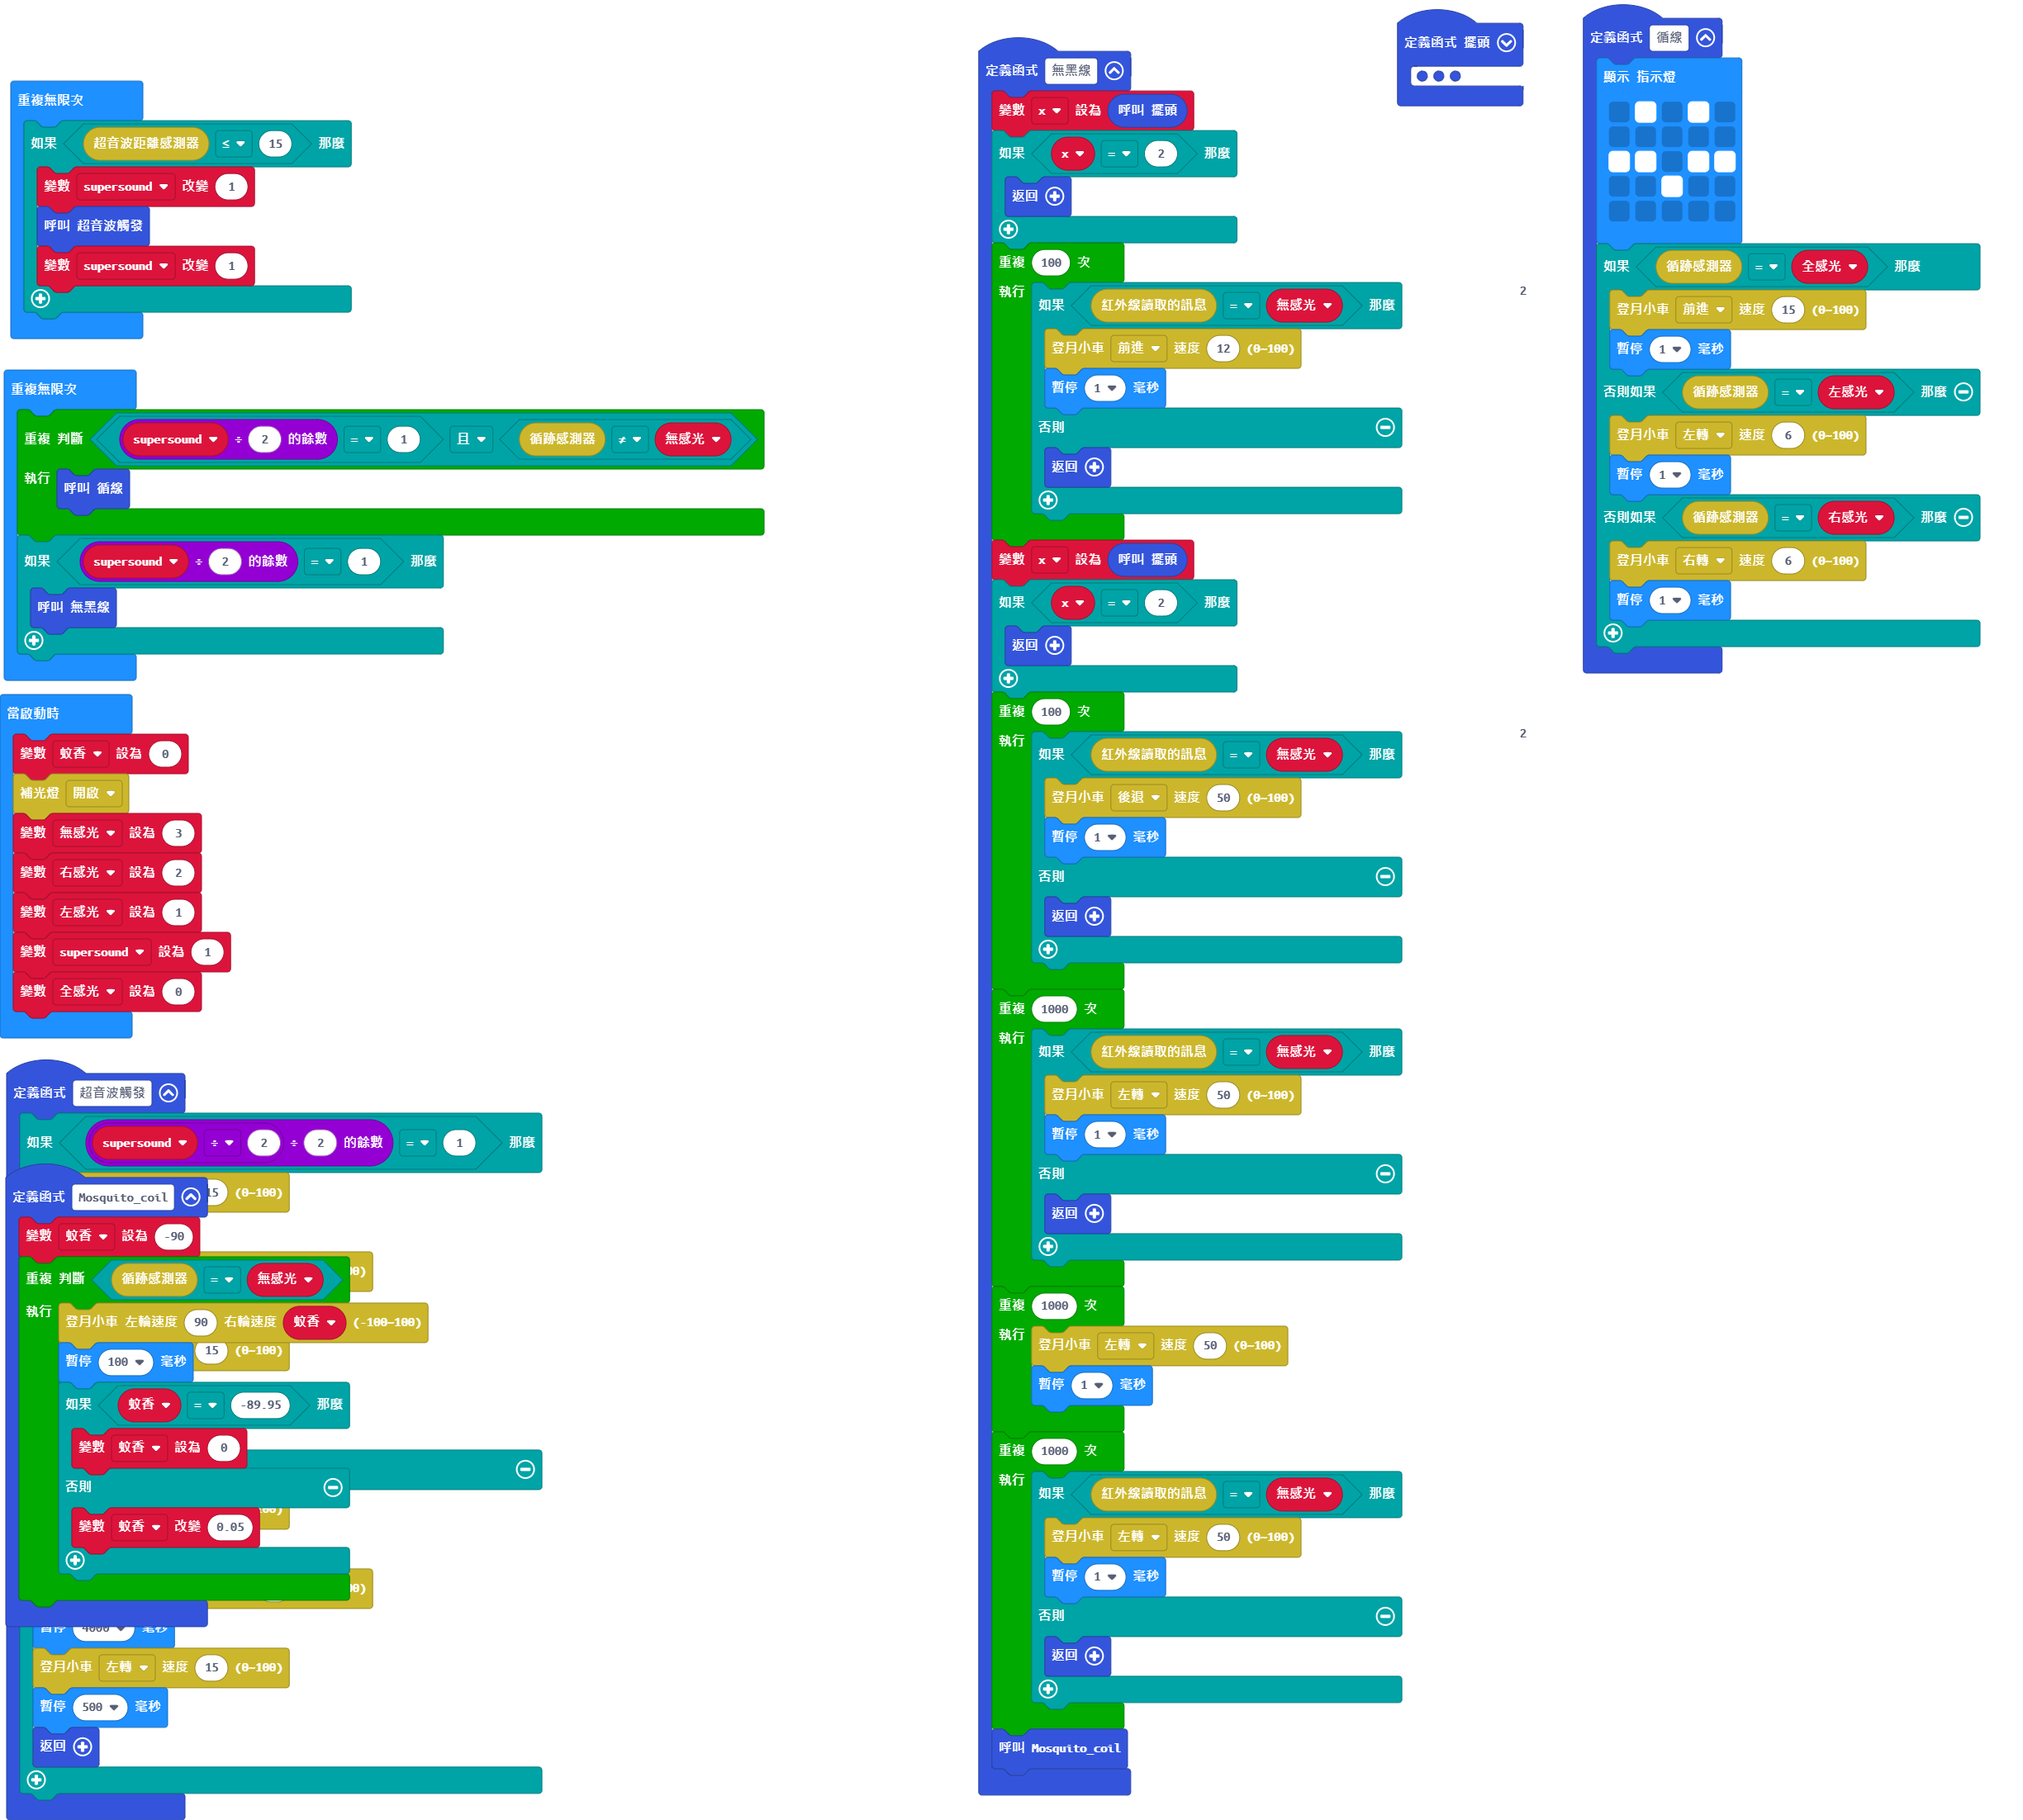
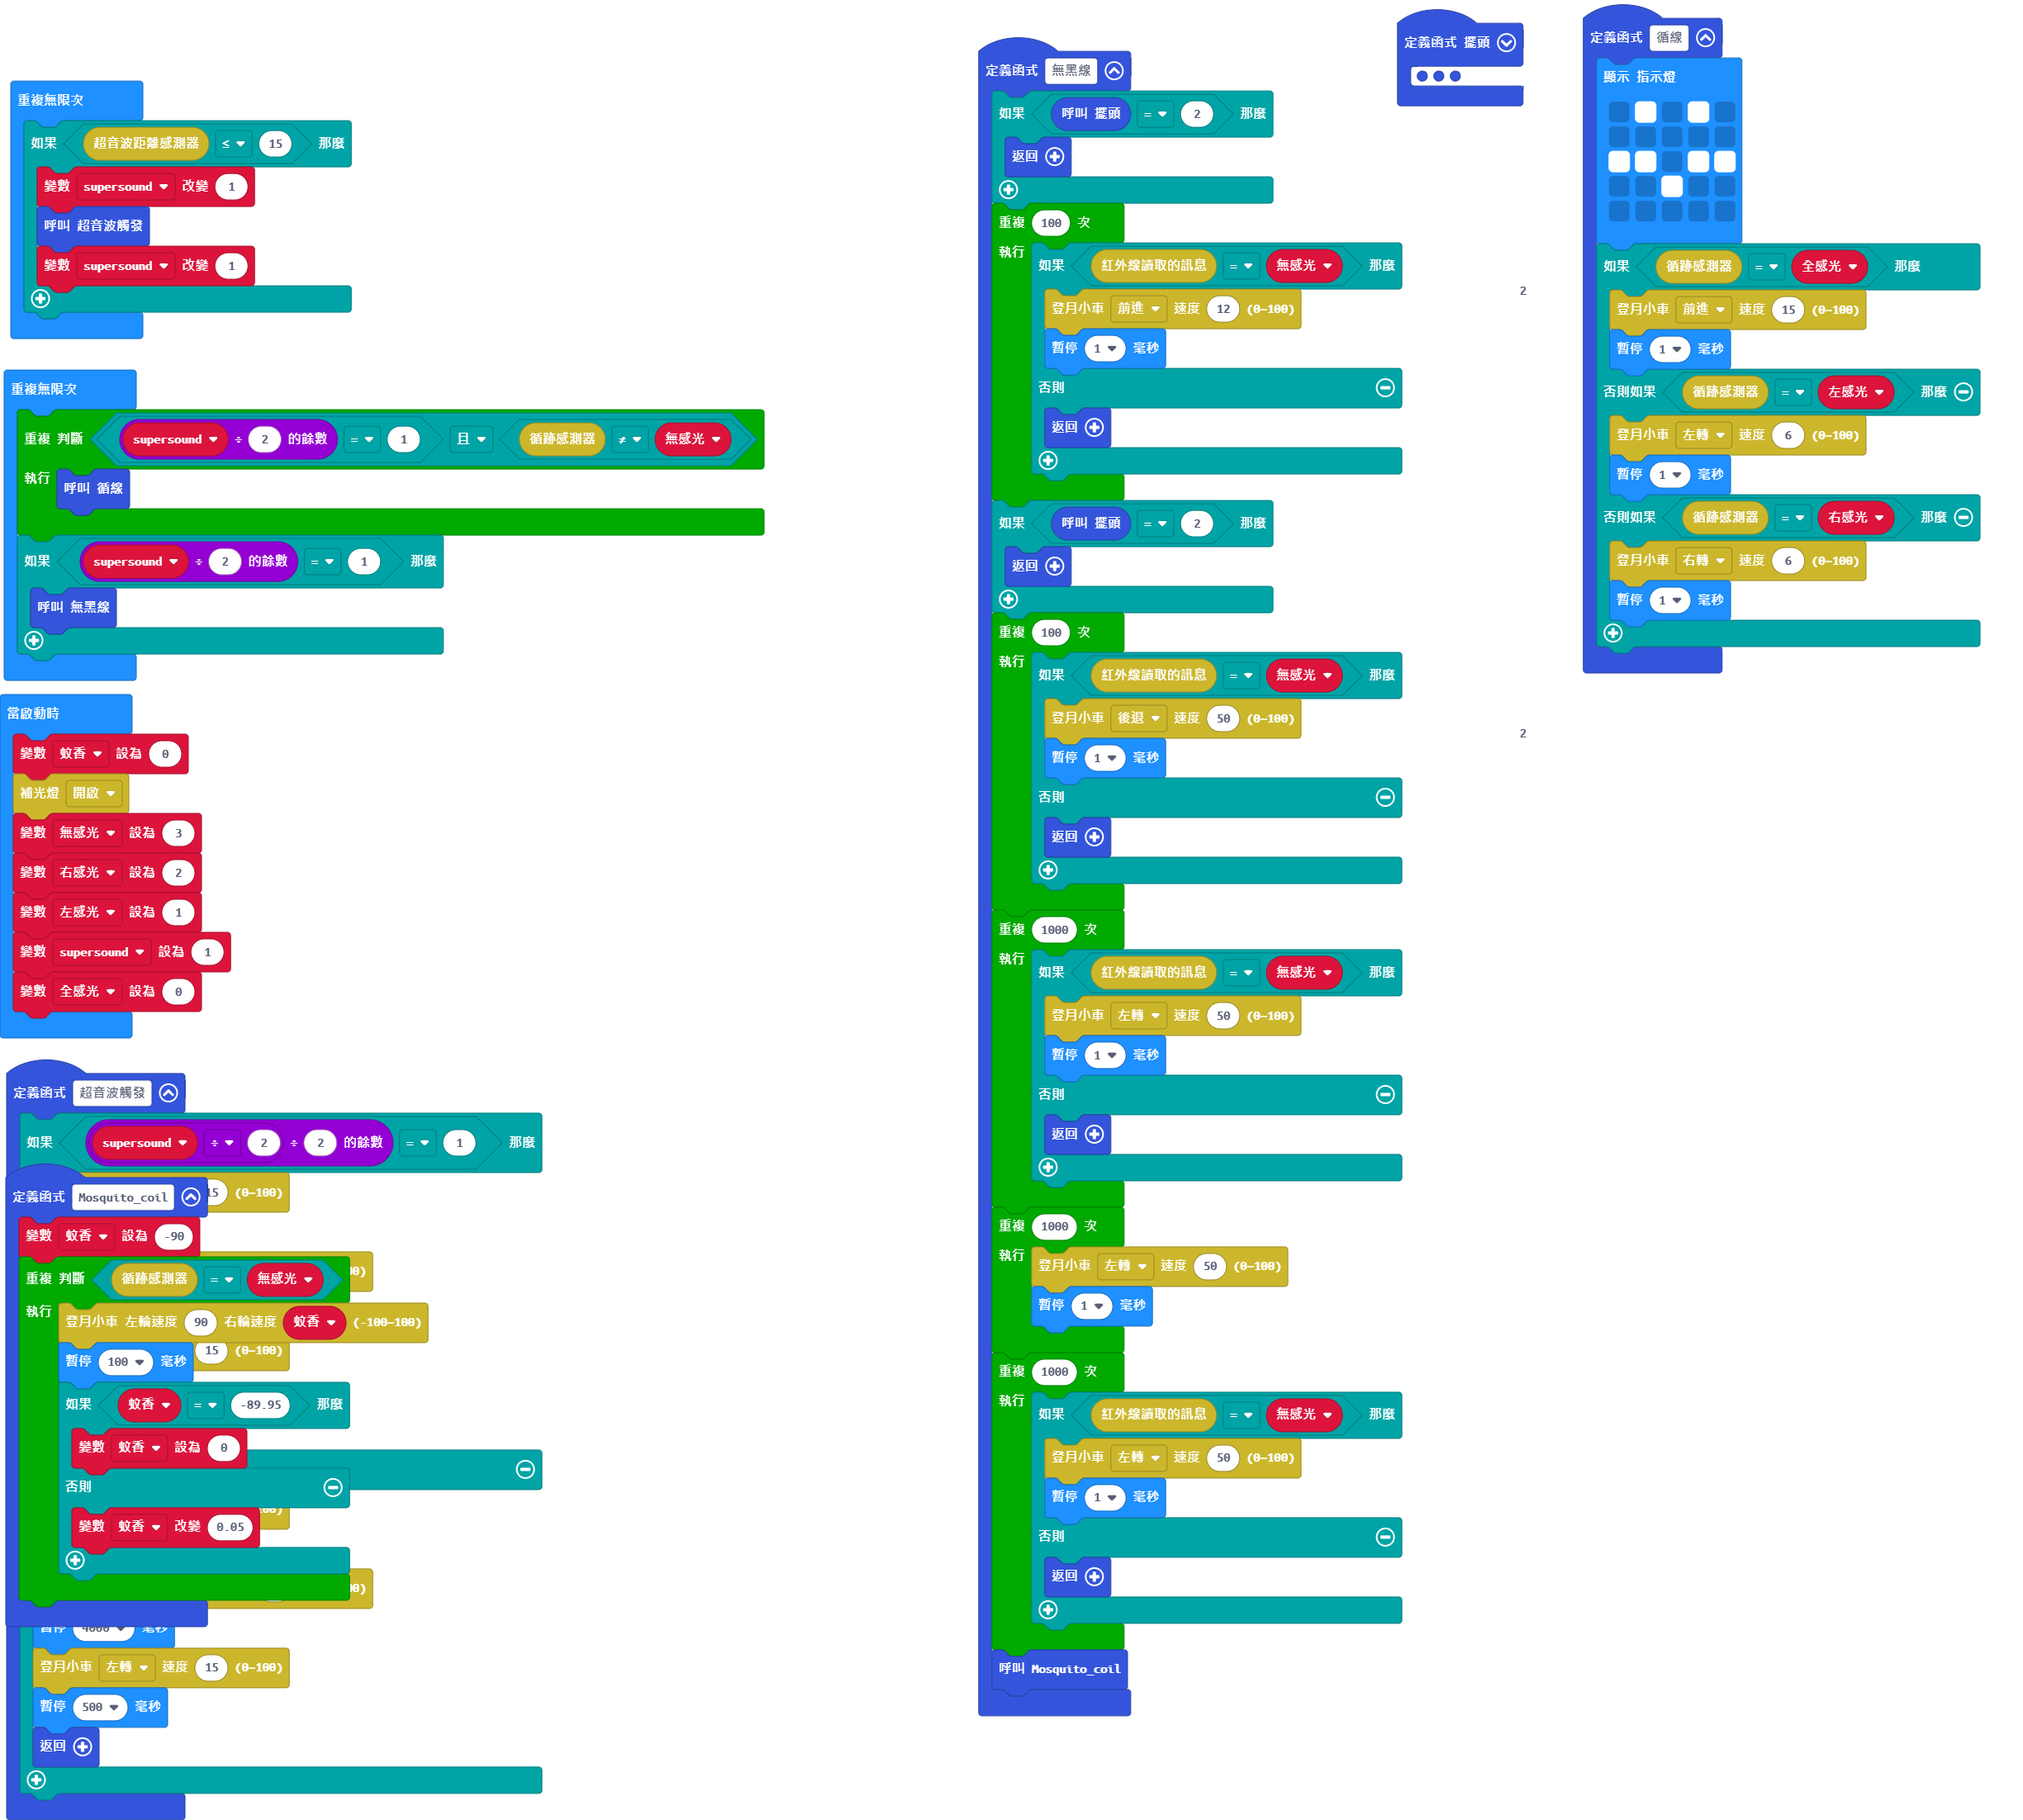
更新 main.blocks, main.ts

Changed region(s): [[0.4655, 0.0309, 0.7138, 0.9873]]

diff --git a/main.ts b/main.ts
@@ -72,8 +72,7 @@ function Mosquito_coil () {
     }
 }
 function 無黑線 () {
-    x = 擺頭()
-    if (x == 2) {
+    if (擺頭() == 2) {
         return
     }
     for (let index = 0; index < 100; index++) {
@@ -84,8 +83,7 @@ function 無黑線 () {
             return
         }
     }
-    x = 擺頭()
-    if (x == 2) {
+    if (擺頭() == 2) {
         return
     }
     for (let index = 0; index < 100; index++) {
@@ -118,7 +116,6 @@ function 無黑線 () {
     }
     Mosquito_coil()
 }
-let x = 0
 let 全感光 = 0
 let supersound = 0
 let 左感光 = 0
